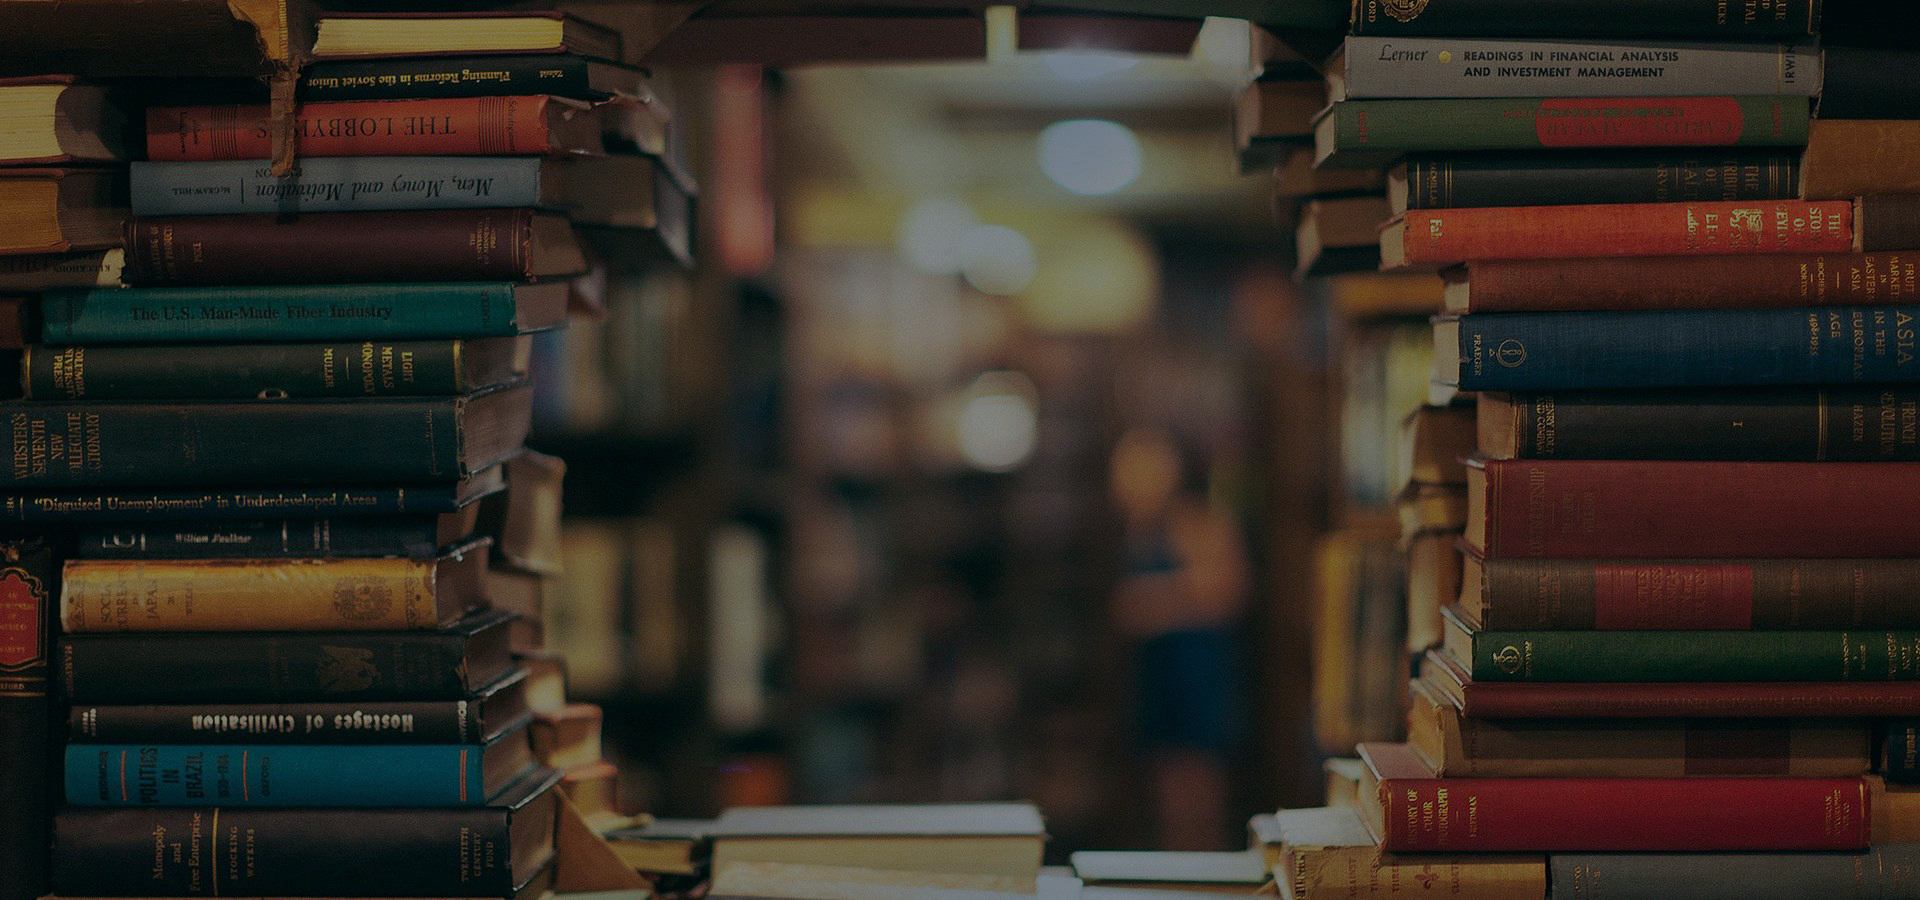
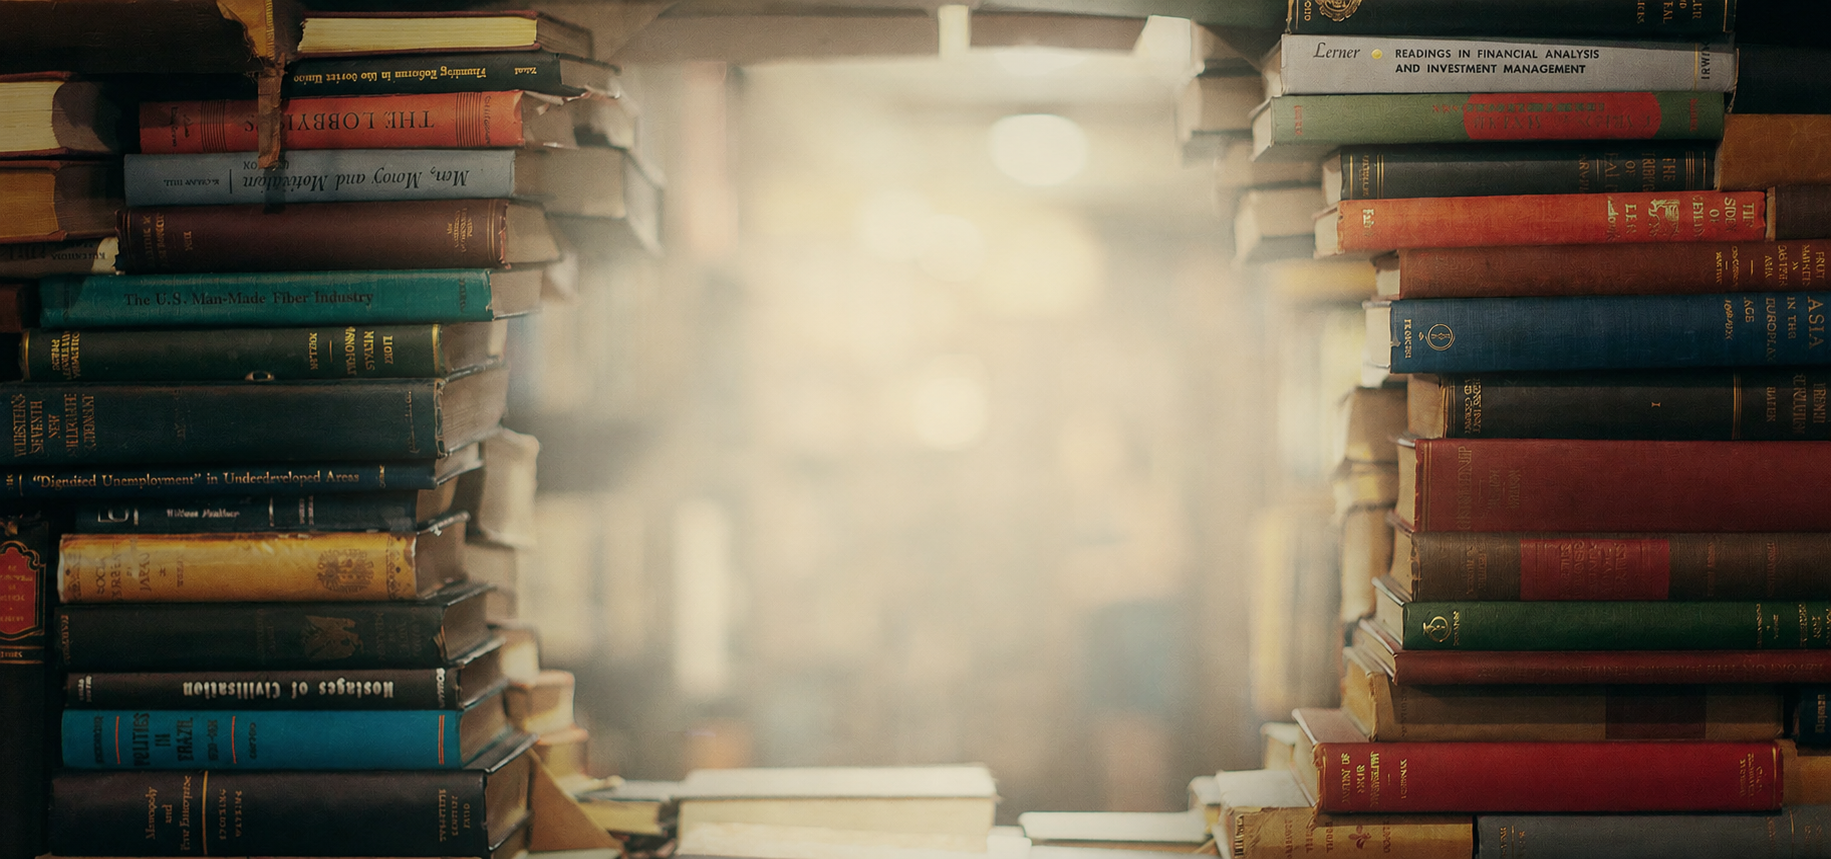
fronted edit

diff --git a/library/templates/add_book_issue.html b/library/templates/add_book_issue.html
@@ -15,7 +15,7 @@
     </div>
 
     <br>
-    <hr>
+
     <div class="book_selection">
         <label>Book Details(Name/UUID)</label>
         <br>
@@ -29,7 +29,7 @@
             {%endfor%}
         </select>
     </div>
-<hr>
+
     <label>Remarks</label><br> <div> {{form.remarks_on_issue}}</div>
     <br> 
     <button type="submit" class="btn btn-success">Issue Book</button>
